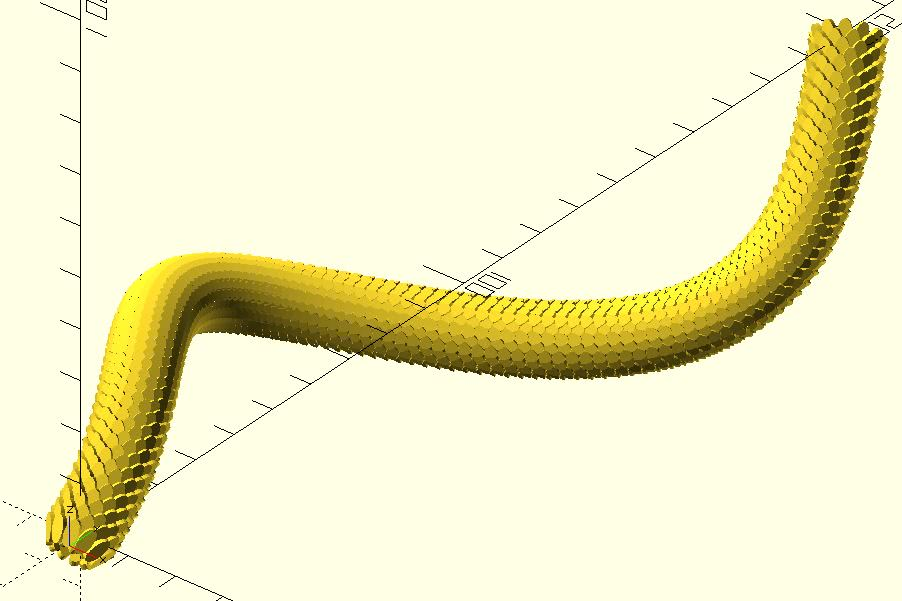
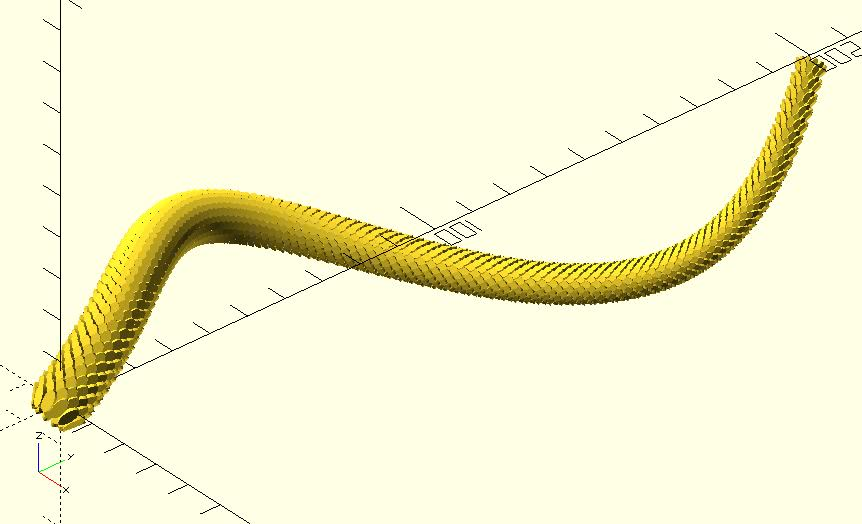
updated doc

diff --git a/docs/lib-along_with.md b/docs/lib-along_with.md
@@ -6,6 +6,8 @@ Puts children along the given path. If there's only one child, it will put the c
 
 - `points` : The points along the path. 
 - `angles` : Rotate before translate each child. If not given, `angles` will be calculated automatically according to `points`.
+- `twist` : If given, each child will be twisted before applying each element of `points` and `angles`.
+- `scale` : If given, each child will be scaled before applying each element of `points` and `angles`. It accepts a single value, `[sx, sy]` or `[sx, sy, sz]`.
 
 ## Examples
 
@@ -72,7 +74,7 @@ Puts children along the given path. If there's only one child, it will put the c
 					scale([2, 1]) 
 						circle(1.25, $fn = 24);    
 		}
-		
+
 		for(a = [0:30:330]) {
 			rotate(a) 
 				translate([5, 0, 0]) 
@@ -97,7 +99,7 @@ Puts children along the given path. If there's only one child, it will put the c
 		[p0, p1, p2, p3, p4, p5]
 	);
 
-	along_with(path_pts)  
+	along_with(path_pts, scale = 0.5)  
 		scales();
 
 ![along_with](images/lib-along_with-4.JPG)
